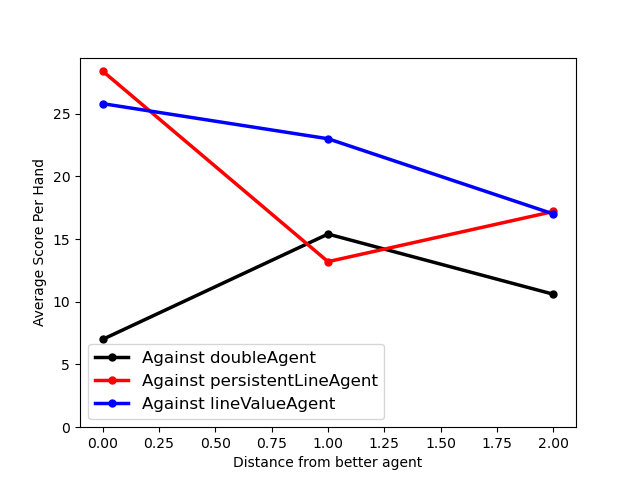
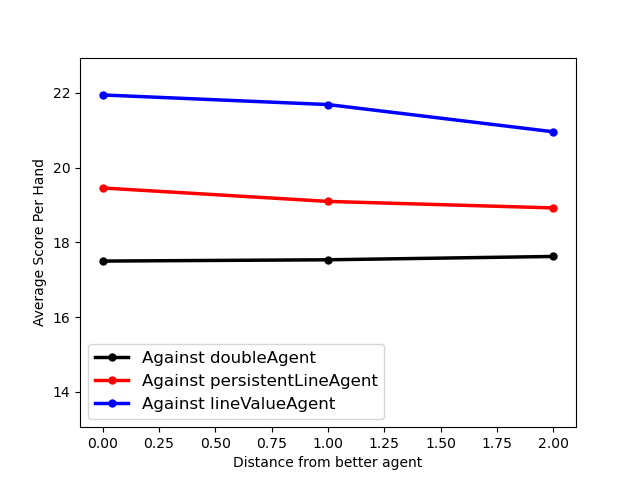
fixing tablePositionMatters output

diff --git a/experiments/tablePositionMatters.py b/experiments/tablePositionMatters.py
@@ -65,6 +65,9 @@ if __name__=='__main__':
         scorePerHand[idx] = game.currentScore[1:] / args.num_rounds
 
     colors = 'krb'
+    minScore = np.min(scorePerHand)
+    maxScore = np.max(scorePerHand)
+    yAxis = (minScore - (maxScore-minScore), maxScore+1)
     
     # Plot ELO trajectory and final ELO estimates for each agent type
     fig = plt.figure()
@@ -72,7 +75,7 @@ if __name__=='__main__':
         plt.plot(range(numPlayers-1), scorePerHand[idx], color=colors[idx], marker='.', markersize=10, linewidth=2.5, label=f"Against {agentsForComparison[idx].agentName}")
     plt.xlabel('Distance from better agent')
     plt.ylabel('Average Score Per Hand')
-    plt.ylim(0)
+    plt.ylim(yAxis[0], yAxis[1])
     plt.legend(fontsize=12, loc='lower left')
     
     if not(args.nosave):
